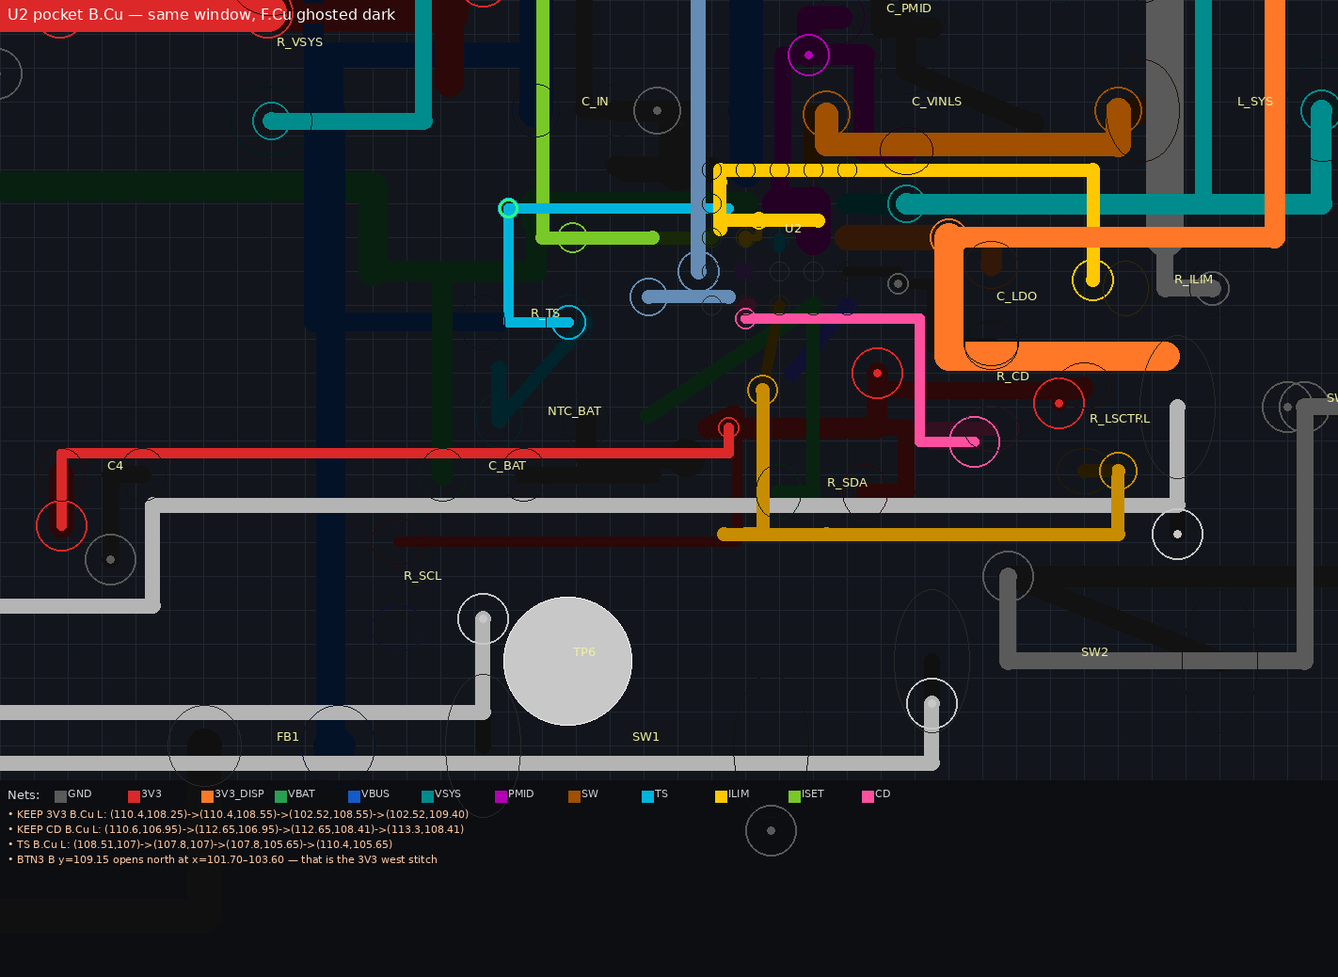
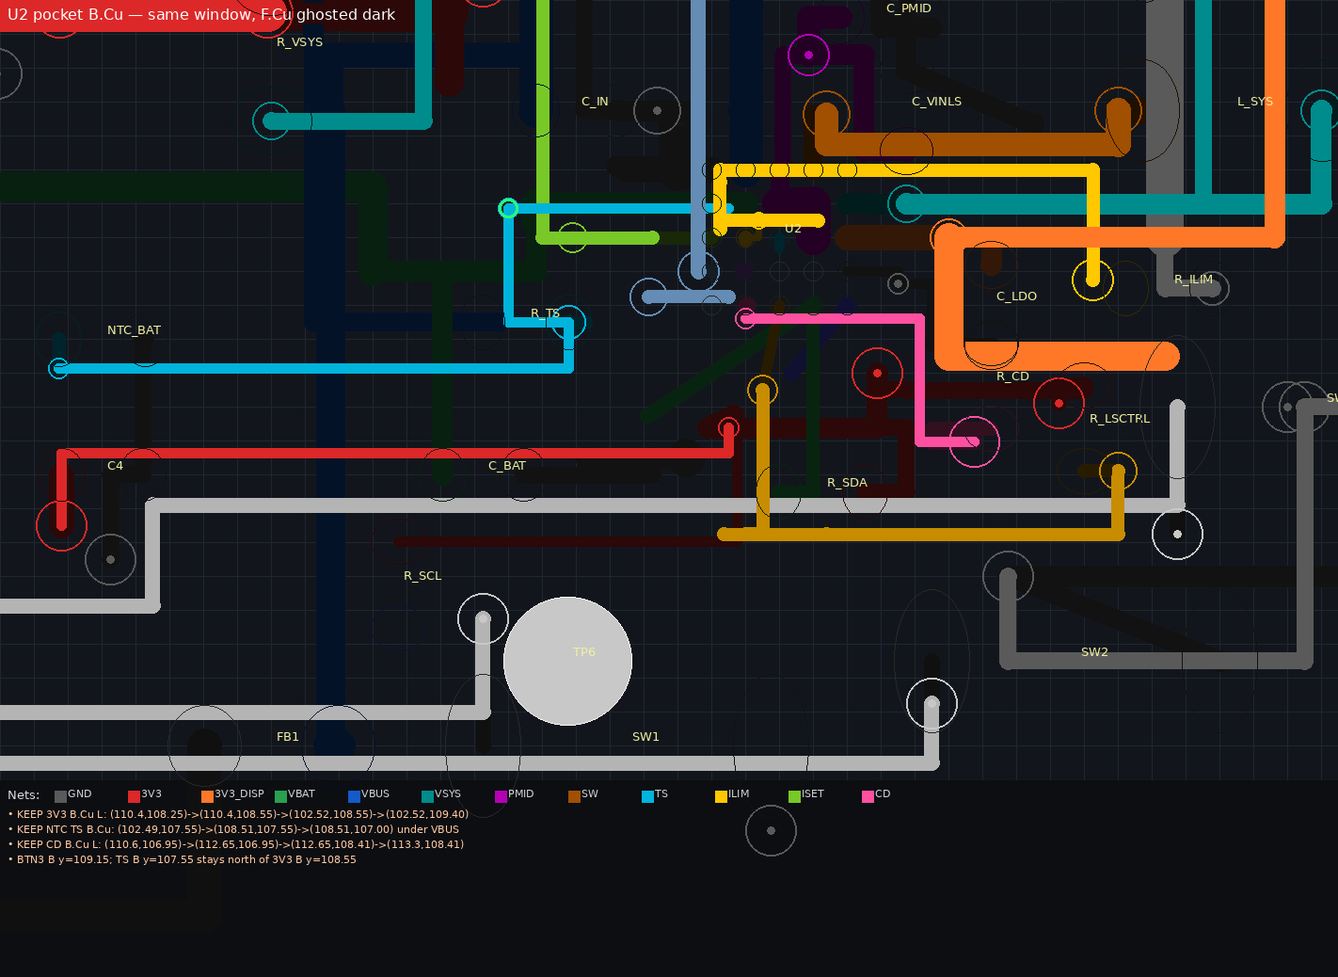
Spread NTC_BAT west onto the C4 column.
Park the 0402 NTC on the C4 column west of VBUS so the south U2 heap is not stacked on C_BAT. TS hops B.Cu under VBUS at y=107.55 onto the existing TS via; GND ties F.Cu onto C4.2. Sol STEP7 independently refused the east/south NTC and north R_SDA paths.

Changed region(s): [[0.0309, 0.8324, 0.3404, 0.894], [0.0309, 0.3391, 0.4332, 0.4008]]

diff --git a/kicad/tools/_pass_ag_try.py b/kicad/tools/_pass_ag_try.py
@@ -426,6 +426,39 @@ elif edit_name == "sol_3v3_west_via":
     text = add_segment(text, 102.52, 108.55, 102.52, 109.4, 0.12, "B.Cu", rail_3v3_net)
     print("sol_3v3_west_via via (110.4,108.25) 0.25 + B L to west via (102.52,109.4)")
 
+elif edit_name == "sol_ntc_west":
+    # Spread the NTC/C_BAT 0402 pile (courtyard −0.290). East of C_BAT is
+    # SDA-diagonal / 3V3-rail blocked; rot90 between C_BAT and R_SDA hits
+    # GND y=108.8 and SDA. R_SDA rot90 on x=111.4 shorts pad2 3V3 vs the
+    # SDA vertical. KEEP: NTC_BAT (108.2,108.15,0) → (103.0,107.2,0) north
+    # of C4, west of VBUS. pad1 TS (102.49,107.20), pad2 GND (103.51,107.20).
+    # TS F→via 0.25@(102.49,107.55) not VIP; B.Cu y=107.55 under VBUS onto
+    # existing TS via (108.51,107.00). GND F onto C4.2. Collapse old TS/GND
+    # stubs in the same save (in-place, no delete). Probe overlap=0
+    # (3V3 B +0.880, BTN3 +1.450, C4.1 3V3 +0.550, VBUS pad2 +1.495).
+    text = set_fp_at(text, "NTC_BAT", "103.0 107.2")
+    text, n_ts_diag = set_seg_ends(
+        text, 108.71, 107.0, 107.69, 108.15, 108.51, 107.0, 108.71, 107.0, layer="F.Cu"
+    )
+    text, n_ts_stub = set_seg_ends(
+        text, 107.69, 108.15, 107.69, 107.55, 108.51, 107.0, 108.51, 107.12, layer="F.Cu"
+    )
+    text, n_gnd = set_seg_ends(
+        text, 108.71, 108.15, 108.71, 108.6, 108.71, 108.6, 109.5, 108.6, layer="F.Cu"
+    )
+    text = add_via(text, 102.49, 107.55, 0.25, 0.15, ts_net)
+    text = add_segment(text, 102.49, 107.2, 102.49, 107.55, 0.15, "F.Cu", ts_net)
+    text = add_segment(text, 102.49, 107.55, 108.51, 107.55, 0.12, "B.Cu", ts_net)
+    text = add_segment(text, 108.51, 107.55, 108.51, 107.0, 0.12, "B.Cu", ts_net)
+    text = add_segment(text, 103.51, 107.2, 103.48, 107.2, 0.2, "F.Cu", ground_net)
+    text = add_segment(text, 103.48, 107.2, 103.48, 108.8, 0.2, "F.Cu", ground_net)
+    print(
+        f"sol_ntc_west fp NTC (103.0,107.2) TS_diag={n_ts_diag} "
+        f"TS_stub={n_ts_stub} GND={n_gnd}"
+    )
+    if n_ts_diag != 1 or n_ts_stub != 1 or n_gnd != 1:
+        raise SystemExit("sol_ntc_west failed to match old TS/GND copper")
+
 else:
     raise SystemExit(f"unknown edit {edit_name}")
 

diff --git a/kicad/tools/_pass_ag_apply_keeps.py b/kicad/tools/_pass_ag_apply_keeps.py
@@ -145,6 +145,33 @@ if has_gnd_d5_tie and not has_3v3_west:
     applied.append("sol_3v3_west_via")
     has_3v3_west = True
 
+has_ntc_west = "(at 103.0 107.2)" in text
+if has_3v3_west and not has_ntc_west:
+    ts_net = netnum(text, "TS")
+    ground_net = netnum(text, "GND")
+    text = set_fp_at(text, "NTC_BAT", "103.0 107.2")
+    text, n_ts_diag = set_seg_ends(
+        text, 108.71, 107.0, 107.69, 108.15, 108.51, 107.0, 108.71, 107.0, layer="F.Cu"
+    )
+    text, n_ts_stub = set_seg_ends(
+        text, 107.69, 108.15, 107.69, 107.55, 108.51, 107.0, 108.51, 107.12, layer="F.Cu"
+    )
+    text, n_gnd = set_seg_ends(
+        text, 108.71, 108.15, 108.71, 108.6, 108.71, 108.6, 109.5, 108.6, layer="F.Cu"
+    )
+    if n_ts_diag != 1 or n_ts_stub != 1 or n_gnd != 1:
+        raise SystemExit(
+            f"sol_ntc_west follow TS_diag={n_ts_diag} TS_stub={n_ts_stub} GND={n_gnd}"
+        )
+    text = add_via(text, 102.49, 107.55, 0.25, 0.15, ts_net)
+    text = add_segment(text, 102.49, 107.2, 102.49, 107.55, 0.15, "F.Cu", ts_net)
+    text = add_segment(text, 102.49, 107.55, 108.51, 107.55, 0.12, "B.Cu", ts_net)
+    text = add_segment(text, 108.51, 107.55, 108.51, 107.0, 0.12, "B.Cu", ts_net)
+    text = add_segment(text, 103.51, 107.2, 103.48, 107.2, 0.2, "F.Cu", ground_net)
+    text = add_segment(text, 103.48, 107.2, 103.48, 108.8, 0.2, "F.Cu", ground_net)
+    applied.append("sol_ntc_west")
+    has_ntc_west = True
+
 if not applied:
     if "(at 110.75 105.8)" in text and (
         "(at 108.8 109.8 90)" in text or has_rscl_west
@@ -166,6 +193,8 @@ if not applied:
             extra += ", sol_gnd_d5_tie"
         if has_3v3_west:
             extra += ", sol_3v3_west_via"
+        if has_ntc_west:
+            extra += ", sol_ntc_west"
         print(
             "Pass-AG keeps already present: "
             f"iset_via_west, ts_via_corner, sol_combo_west{extra}"

diff --git a/kicad/tools/_u2_pocket_render.py b/kicad/tools/_u2_pocket_render.py
@@ -40,7 +40,7 @@ LATENTS = [
     "KEEP: TS via (107.8,105.65) 0.25; ILIM via (110.75,105.80) 0.20; CD E2 (110.6,106.95)",
     "KEEP: R_SCL (106.5,110.1,90); GND D5 via (112.4,106.55)+F L to R_CD (112.8,107.24)",
     "KEEP: 3V3 west via (110.4,108.25) 0.25 + B L y=108.55 onto (102.52,109.40)",
-    "Sol STEP6 no SCL/TS/A5 KEEP. Remaining: A5 GND, west GND NTC, SDA, SCL, TS, PMIC_INT, 3V3_DISP",
+    "KEEP: NTC_BAT (103.0,107.2,0) on C4 column; TS B y=107.55 under VBUS to (108.51,107.00)",
 ]
 
 
@@ -248,6 +248,7 @@ def render_layer(text, layer, title, callouts):
         ((110.45, 106.80, 110.75, 107.10), "CD via KEEP"),
         ((112.20, 106.35, 112.95, 107.35), "GND D5 KEEP"),
         ((110.20, 108.05, 110.60, 108.45), "3V3 west KEEP"),
+        ((102.40, 106.90, 103.70, 107.75), "NTC west KEEP"),
     ]
     if layer == "F.Cu":
         for (bx0, by0, bx1, by1), _label in boxes:
@@ -284,7 +285,7 @@ def main():
     fcu = render_layer(
         text,
         "F.Cu",
-        "U2 pocket F.Cu — after 3V3 west stitch (shorting=0, unc=9)",
+        "U2 pocket F.Cu — after NTC west spread (shorting=0, unc=9)",
         LATENTS,
     )
     bcu = render_layer(
@@ -293,9 +294,9 @@ def main():
         "U2 pocket B.Cu — same window, F.Cu ghosted dark",
         [
             "KEEP 3V3 B.Cu L: (110.4,108.25)->(110.4,108.55)->(102.52,108.55)->(102.52,109.40)",
+            "KEEP NTC TS B.Cu: (102.49,107.55)->(108.51,107.55)->(108.51,107.00) under VBUS",
             "KEEP CD B.Cu L: (110.6,106.95)->(112.65,106.95)->(112.65,108.41)->(113.3,108.41)",
-            "TS B.Cu L: (108.51,107)->(107.8,107)->(107.8,105.65)->(110.4,105.65)",
-            "BTN3 B y=109.15 opens north at x=101.70–103.60 — that is the 3V3 west stitch",
+            "BTN3 B y=109.15; TS B y=107.55 stays north of 3V3 B y=108.55",
         ],
     )
     fcu_path = OUT / "u2_pocket_fcu_annotated.png"

diff --git a/kicad/reports/PASS_AG_SOL_STEP7.md b/kicad/reports/PASS_AG_SOL_STEP7.md
@@ -1,0 +1,105 @@
+# gpt-6-sol repo explorer (2026-09-24)
+
+Sol used workspace tools. API key is not in the repo. Coordinates below are **Sol's**, not yet a DRC KEEP unless a later section says KEEP.
+
+## Tool calls
+
+- `list_dir` `{"path": "."}`
+- `glob` `{"pattern": "**/cursor.md"}`
+- `glob` `{"pattern": "kicad/reports/**/*"}`
+- `glob` `{"pattern": "kicad/*PASS*"}`
+- `read_file` `{"path": "cursor.md"}`
+- `read_file` `{"path": "kicad/reports/PASS_AG.md"}`
+- `read_file` `{"path": "kicad/reports/PASS_AG_SOL_STEP5.md"}`
+- `read_file` `{"path": "kicad/reports/PASS_AG_SOL_STEP6.md"}`
+- `list_dir` `{"path": "kicad/reports/sol_views"}`
+- `list_dir` `{"path": "kicad"}`
+- `grep` `{"path": "kicad/LIVE_LOG.txt", "pattern": "sol_gnd_d5_tie|sol_3v3_west_via|unc|shorting", "max_matches": 35}`
+- `grep` `{"path": "kicad/LIVE_LOG.txt", "pattern": "sol_gnd_d5_tie|sol_3v3_west_via|STEP6|unc=9", "max_matches": 30}`
+- `read_file` `{"path": "kicad/LIVE_LOG.txt", "offset": 900, "limit": 170}`
+- `read_image` `{"path": "kicad/reports/sol_views/u2_pocket_fcu_annotated.png"}`
+- `read_image` `{"path": "kicad/reports/sol_views/u2_pocket_bcu_annotated.png"}`
+- `read_image` `{"path": "kicad/reports/sol_views/u2_3d_close.png"}`
+- `inspect_pcb_window` `{"x0": 103, "y0": 104, "x1": 117, "y1": 114}`
+- `inspect_pcb_window` `{"x0": 105.9, "y0": 106.5, "x1": 115.4, "y1": 110.4, "layer": "F.Cu"}`
+- `probe_clearance` `{"kind": "segment", "net": "SDA", "layer": "F.Cu", "x1": 110.99, "y1": 108.7, "x2": 111.4, "y2": 108.7, "width": 0.15}`
+- `probe_clearance` `{"kind": "segment", "net": "3V3", "layer": "F.Cu", "x1": 112.01, "y1": 108.7, "x2": 112.5, "y2": 108.7, "width": 0.2}`
+- `probe_clearance` `{"kind": "segment", "net": "SDA", "layer": "F.Cu", "x1": 111.4, "y1": 108.7, "x2": 111.4, "y2": 106.8, "width": 0.15}`
+- `probe_clearance` `{"kind": "segment", "net": "3V3", "layer": "F.Cu", "x1": 112.5, "y1": 108.7, "x2": 112.5, "y2": 108.25, "width": 0.2}`
+- `probe_clearance` `{"kind": "segment", "net": "SDA", "layer": "F.Cu", "x1": 110.99, "y1": 108.7, "x2": 110.99, "y2": 108.7, "width": 0.15}`
+- `probe_clearance` `{"kind": "segment", "net": "3V3", "layer": "F.Cu", "x1": 112.01, "y1": 108.7, "x2": 112.01, "y2": 108.7, "width": 0.2}`
+- `probe_clearance` `{"kind": "segment", "net": "SDA", "layer": "F.Cu", "x1": 110.99, "y1": 108.53, "x2": 110.99, "y2": 109.17, "width": 0.54}`
+- `probe_clearance` `{"kind": "segment", "net": "3V3", "layer": "F.Cu", "x1": 112.01, "y1": 108.53, "x2": 112.01, "y2": 109.17, "width": 0.54}`
+- `probe_clearance` `{"kind": "segment", "net": "SDA", "layer": "F.Cu", "x1": 110.99, "y1": 108.85, "x2": 111.4, "y2": 108.85, "width": 0.15}`
+- `probe_clearance` `{"kind": "segment", "net": "3V3", "layer": "F.Cu", "x1": 112.01, "y1": 108.85, "x2": 112.5, "y2": 108.85, "width": 0.2}`
+- `probe_clearance` `{"kind": "segment", "net": "SDA", "layer": "F.Cu", "x1": 111.4, "y1": 108.85, "x2": 111.4, "y2": 106.8, "width": 0.15}`
+- `probe_clearance` `{"kind": "segment", "net": "3V3", "layer": "F.Cu", "x1": 112.5, "y1": 108.85, "x2": 112.5, "y2": 108.25, "width": 0.2}`
+- `probe_clearance` `{"kind": "segment", "net": "TS", "layer": "F.Cu", "x1": 107.69, "y1": 107.75, "x2": 107.69, "y2": 108.39, "width": 0.54}`
+- `probe_clearance` `{"kind": "segment", "net": "GND", "layer": "F.Cu", "x1": 108.71, "y1": 107.75, "x2": 108.71, "y2": 108.39, "width": 0.54}`
+- `probe_clearance` `{"kind": "segment", "net": "VBAT", "layer": "F.Cu", "x1": 107.02, "y1": 108.9, "x2": 107.02, "y2": 109.52, "width": 0.56}`
+- `probe_clearance` `{"kind": "segment", "net": "GND", "layer": "F.Cu", "x1": 107.98, "y1": 108.9, "x2": 107.98, "y2": 109.52, "width": 0.56}`
+- `probe_clearance` `{"kind": "segment", "net": "GND", "layer": "F.Cu", "x1": 107.98, "y1": 109.21, "x2": 109.5, "y2": 109.21, "width": 0.2}`
+- `probe_clearance` `{"kind": "segment", "net": "TS", "layer": "F.Cu", "x1": 107.69, "y1": 107.75, "x2": 107.69, "y2": 107.55, "width": 0.18}`
+
+## Usage
+
+{
+  "prompt_tokens": 43825,
+  "completion_tokens": 1386,
+  "total_tokens": 45211,
+  "prompt_tokens_details": {
+    "cached_tokens": 40757,
+    "cache_write_tokens": 3065
+  },
+  "completion_tokens_details": {
+    "reasoning_tokens": 692
+  },
+  "cost": 0.0,
+  "is_byok": false
+}
+
+## Sol reply
+
+Я сам открыл `cursor.md`, хвост `kicad/LIVE_LOG.txt`, `PASS_AG.md`, `PASS_AG_SOL_STEP5.md` и `STEP6.md`; осмотрел медь и площадки в живой плате через `inspect_pcb_window`, размеченные карты F.Cu/B.Cu и крупный 3D-вид из `sol_views`. Плату не менял. Состояние после `sol_gnd_d5_tie` и `sol_3v3_west_via` принимаю как исходное: по отчёту `shorting=0`, `unc=9`; эти KEEP не откатываю и зоны не перезаливаю.
+
+Три **разных направления**, пока не готовых KEEP:
+
+1. **Разнести NTC_BAT и C_BAT по вертикали.** Сдвиг NTC_BAT к C_BAT ограничен их медью: проверенная проба площадки TS в нижнем направлении дала перекрытие с площадкой GND C_BAT `−0,078 мм`. Сдвиг C_BAT вниз требует переложить VBAT и GND; проба площадок в этом направлении пересекла существующую F.Cu-шину 3V3 (`−0,270 мм`). Северный обход TS остаётся отдельной задачей.
+2. **Увести R_SDA на север, сохранив ортогональные F.Cu-подводы SDA и 3V3.** Пробные короткие подводы к площадкам свободны, но полный подвод SDA по существующему вертикальному направлению пересекает 3V3 (`−0,200 мм`) и SCL (`−0,165 мм`). Одной перестановки 0402 недостаточно. Южная постановка R_SDA на дворовые зоны SW1/SW2 уже отвергнута в отчётах.
+3. **Оставить южную группу на месте и соединять острова U2 обходами F/B:** SCL E5 — к `R_SCL.1` через южный F.Cu-обход; TS C3 — к существующему TS-переходу `(107,80; 105,65)` через северный B.Cu-обход. Это отличается от перестановок NTC/C_BAT и R_SDA, но проверенного сквозного пути нет: у SCL мешают подвод 3V3, VBUS и BTN1, у TS — CD и ILIM. Сигналы на In1.Cu/In2.Cu не вывожу, новые переходы допустимы только F.Cu–B.Cu.
+
+**Первого комбинированного KEEP сейчас нет.** Поэтому точных команд `set_fp_at` / `set_seg_ends` / `add_segment` / `add_via` не выдаю: пробы не подтвердили одновременно новые площадки и все последующие участки ни для одного полного варианта. Локально свободный отрезок не является разрешением на перенос компонента или соединение островов; после полного геометрического решения потребуется отдельная проверка DRC с неизменными жёсткими порогами. VBUS на док не подавать.
+
+## Independent KEEP (not Sol copper)
+
+Sol correctly refused NTC/C_BAT south (C_BAT GND / 3V3 L) and R_SDA north along `x=111.4`. Independent west-of-VBUS path: park `NTC_BAT` on the `C4` column, TS B.Cu under VBUS at `y=107.55` (north of BTN3 `y=109.15` and of 3V3 B `y=108.55`).
+
+### REJECT (not applied)
+
+- NTC south onto C_BAT GND `−0.078` (Sol)
+- C_BAT south onto 3V3 L `y=109.59` `−0.270` (Sol)
+- R_SDA north, SDA vertical vs 3V3 `−0.200` / SCL `−0.165` (Sol)
+- NTC rot90 between C_BAT and R_SDA — GND `y=108.8` and SDA diagonal
+- NTC `(104.50, 107.20, 0)` — pad2 vs VBUS
+- R_SDA `(111.40, 108.76, 90)` — pad2 3V3 on SDA vertical `x=111.4`
+
+### Applied KEEP `sol_ntc_west`
+
+```text
+set_fp_at(NTC_BAT, 103.0 107.2)
+set_seg_ends TS F (108.71,107.0)-(107.69,108.15) → (108.51,107.0)-(108.71,107.0)
+set_seg_ends TS F (107.69,108.15)-(107.69,107.55) → (108.51,107.0)-(108.51,107.12)
+set_seg_ends GND F (108.71,108.15)-(108.71,108.6) → (108.71,108.6)-(109.5,108.6)
+add_via(net=TS, at=(102.49, 107.55), size=0.25, drill=0.15)
+add_segment(net=TS, layer=F.Cu, start=(102.49, 107.2), end=(102.49, 107.55), width=0.15)
+add_segment(net=TS, layer=B.Cu, start=(102.49, 107.55), end=(108.51, 107.55), width=0.12)
+add_segment(net=TS, layer=B.Cu, start=(108.51, 107.55), end=(108.51, 107.0), width=0.12)
+add_segment(net=GND, layer=F.Cu, start=(103.51, 107.2), end=(103.48, 107.2), width=0.20)
+add_segment(net=GND, layer=F.Cu, start=(103.48, 107.2), end=(103.48, 108.8), width=0.20)
+```
+
+Courtyard NTC vs C_BAT `−0.290` → `+2.721`. Probe overlap=0 (3V3 B `+0.880`, BTN3 `+1.450`, C4.1 3V3 `+0.550`). DRC: **`shorting_items=0`**, `unc=9`, power/pocket gates held.
+
+## Remaining U2 islands
+
+A5 GND, `C_BAT` GND vs east `R_CD`, SDA to U1, SCL E5 vs `R_SCL` pad1 `(106.5, 110.61)`, SCL to U1, PMIC_INT, TS C3 vs TS B `(107.8, 105.65)`, west 3V3_DISP. Courtyard leftovers: `C_BAT` vs `R_SCL` `−0.100`, `R_SDA` vs `SW2` `−0.120`.

diff --git a/kicad/reports/PASS_AG.md b/kicad/reports/PASS_AG.md
@@ -2,12 +2,12 @@
 
 **Board:** `e-ink-watch.kicad_pcb`  
 **From:** Pass-AF (`shorting=0`, `unc=10`)  
-**To:** Pass-AG (`shorting=0`, `unc=9` after `sol_3v3_west_via`)  
+**To:** Pass-AG (`shorting=0`, `unc=9` after `sol_ntc_west`)  
 **Tool:** `kicad-cli 9.0.9 pcb drc` + in-place sexpr edits
 
 ## Verdict
 
-**Partial.** Hard gates held. Combined Sol vision KEEP cleared the four U2 latents. Sol then browsed the repo: `sol_rscl_3v3` then `sol_3v3_lsctrl_tie` reconnected the west `R_SCL` pad2 and the leftover `R_LSCTRL` 3V3 stub. Independent CD F→B KEEP (`sol_cd_e2_via`) and ILIM C2 dogbone (`sol_ilim_c2_dogbone`) closed E2 and C2 (`unc` 16→12). South 0402 heap spread with `sol_rscl_west` (`R_SCL` to `(106.5, 110.1, 90)`). Independent `sol_gnd_d5_via` + F.Cu tie `sol_gnd_d5_tie` joined D5 onto east `R_CD` GND (`unc` 12→10). Independent `sol_3v3_west_via` joined east 3V3 to west via `(102.52, 109.40)` on B.Cu north of BTN3 (`unc` 10→9). C3 TS and E5 SCL still islands. Not production-ready.
+**Partial.** Hard gates held. Combined Sol vision KEEP cleared the four U2 latents. Sol then browsed the repo: `sol_rscl_3v3` then `sol_3v3_lsctrl_tie` reconnected the west `R_SCL` pad2 and the leftover `R_LSCTRL` 3V3 stub. Independent CD F→B KEEP (`sol_cd_e2_via`) and ILIM C2 dogbone (`sol_ilim_c2_dogbone`) closed E2 and C2 (`unc` 16→12). South 0402 heap spread with `sol_rscl_west` (`R_SCL` to `(106.5, 110.1, 90)`). Independent `sol_gnd_d5_via` + F.Cu tie `sol_gnd_d5_tie` joined D5 onto east `R_CD` GND (`unc` 12→10). Independent `sol_3v3_west_via` joined east 3V3 to west via `(102.52, 109.40)` on B.Cu north of BTN3 (`unc` 10→9). Independent `sol_ntc_west` moved `NTC_BAT` onto the `C4` column west of VBUS (courtyard vs `C_BAT` `−0.290` → `+2.721`; `unc` stayed 9). C3 TS and E5 SCL still islands. Not production-ready.
 
 ## KEEP (DRC-gated)
 
@@ -24,6 +24,7 @@
 | `sol_gnd_d5_via` add F/via | U2.D5 GND dogbone via `(112.4, 106.55)` `0.25/0.15` + F L `(111.8,106.4)→(112.4,106.4)→(112.4,106.55)` w=0.12. Not VIP. Via does not stitch stale In1 fill. `shorting=0`, `unc=12→11`. |
 | `sol_gnd_d5_tie` add F.Cu | Orthogonal F.Cu east-then-south `(112.4,106.55)→(112.8,106.55)→(112.8,107.24)` w=0.12 onto existing `R_CD` GND. Probe overlap=0 (3V3_DISP via `+0.300`, 3V3 via `+0.374`). Vertical-first `(112.4,106.55)–(112.4,107.24)` is only `+0.073` vs 3V3 via — rejected. `shorting=0`, `unc=11→10`. |
 | `sol_3v3_west_via` add B/via | Via on existing 3V3 F rail `(110.4, 108.25)` `0.25/0.15` + B.Cu L `(110.4,108.25)→(110.4,108.55)→(102.52,108.55)→(102.52,109.40)` onto west 3V3 via. Sol's F.Cu `(102.52,109.40)–(106.5,109.40)` hits VBUS. Via `(107.0,109.59)` cannot B-drop across BTN3 `y=109.15`. `(110.8,108.25)` overlap LSCTRL B. Probe overlap=0 (LSCTRL B `+0.200`, BTN3 `+0.450`). `shorting=0`, `unc=10→9`. |
+| `sol_ntc_west` move + F/B | Spread NTC/C_BAT pile: `NTC_BAT (108.2, 108.15, 0)` → `(103.0, 107.2, 0)` north of `C4`. TS via `0.25@(102.49, 107.55)` + B.Cu `y=107.55` under VBUS onto TS via `(108.51, 107.00)`; GND F onto `C4.2`. Sol STEP7 refused east/south NTC and north `R_SDA`. Probe overlap=0 (3V3 B `+0.880`, BTN3 `+1.450`, C4.1 3V3 `+0.550`). `shorting=0`, `unc=9`. |
 
 Replay: `python3 tools/_pass_ag_apply_keeps.py` on the Pass-AF board.
 
@@ -45,11 +46,11 @@ The four U2 latents from Pass-AG are **geometrically cleared** by `sol_combo_wes
 
 ## Remaining unc=9
 
-GND A5 vs D5, D5/`R_CD` east GND vs west GND `(108.71, 108.60)` (`NTC_BAT`/`C_BAT`), west 3V3_DISP, SDA to U1, SCL E5 vs `R_SCL` pad1 `(106.5, 110.61)`, SCL to U1, PMIC_INT, TS C3 vs TS B via `(107.8, 105.65)`. Pocket CD (E2), ILIM (C2), D5→east GND, and east 3V3→west via are closed. `R_SDA` still sits in the F street at `(111.50, 109.00)`.
+GND A5 vs D5, D5/`R_CD` east GND vs `C_BAT` west-of-U2 GND, west 3V3_DISP, SDA to U1, SCL E5 vs `R_SCL` pad1 `(106.5, 110.61)`, SCL to U1, PMIC_INT, TS C3 vs TS B via `(107.8, 105.65)`. Pocket CD (E2), ILIM (C2), D5→east GND, east 3V3→west via, and NTC TS/GND (now on the `C4` column) are closed. `R_SDA` still sits in the F street at `(111.50, 109.00)` (courtyard vs `SW2` `−0.120`). `C_BAT` vs `R_SCL` courtyard `−0.100`.
 
 ## Next
 
-Orthogonal F/B reconnect of TS C3 and SCL E5→`R_SCL` pad1 `(106.5, 110.61)`. Do not park `R_SDA` on `SW1`/`SW2` courtyards. New CD B.Cu at `y=106.95` `x=110.60–112.65` — through vias there short CD. New GND via does not stitch In1 until refill — use F.Cu ties to existing GND copper. No In1/In2 signal hauls. No new overlap. East 0402 column stays (`R_CD`/`C_LDO` x=113.5, `R_LSCTRL` x=114.6, `R_ILIM` x=115.6).
+Spread `C_BAT` off `R_SCL` / `R_SDA` off `SW2` without parking on SW1/SW2. Orthogonal F/B reconnect of TS C3 and SCL E5→`R_SCL` pad1 `(106.5, 110.61)`. New CD B.Cu at `y=106.95` `x=110.60–112.65` — through vias there short CD. New GND via does not stitch In1 until refill — use F.Cu ties to existing GND copper. No In1/In2 signal hauls. No new overlap. East 0402 column stays (`R_CD`/`C_LDO` x=113.5, `R_LSCTRL` x=114.6, `R_ILIM` x=115.6).
 
 gpt-6-sol now browses with `tools/_sol_repo_explore.py`. NC pads must show in `inspect_pcb_window` / `probe_clearance` or it will haul CD onto E1.
 
@@ -58,5 +59,5 @@ gpt-6-sol now browses with `tools/_sol_repo_explore.py`. NC pads must show in `i
 - `tools/_pass_ag_sexpr_lib.py`, `_pass_ag_gate.py`, `_pass_ag_try.py`, `_pass_ag_apply_keeps.py`, `_pass_ag_run.sh`
 - `tools/_u2_pocket_render.py`, `_sol_vision_ask.py`, `_sol_repo_explore.py`, `_sol_board_query.py`
 - `reports/sol_views/`
-- `reports/PASS_AG_SOL.md`, `reports/PASS_AG_SOL_VISION.md`, `reports/PASS_AG_SOL_EXPLORE.md`, `reports/PASS_AG_SOL_EXPLORE_FOLLOWUP.md`, `reports/PASS_AG_SOL_STEP.md`, `reports/PASS_AG_SOL_STEP2.md`, `reports/PASS_AG_SOL_STEP3.md`, `reports/PASS_AG_SOL_STEP4.md`, `reports/PASS_AG_SOL_STEP5.md`, `reports/PASS_AG_SOL_STEP6.md`
+- `reports/PASS_AG_SOL.md`, `reports/PASS_AG_SOL_VISION.md`, `reports/PASS_AG_SOL_EXPLORE.md`, `reports/PASS_AG_SOL_EXPLORE_FOLLOWUP.md`, `reports/PASS_AG_SOL_STEP.md`, `reports/PASS_AG_SOL_STEP2.md`, `reports/PASS_AG_SOL_STEP3.md`, `reports/PASS_AG_SOL_STEP4.md`, `reports/PASS_AG_SOL_STEP5.md`, `reports/PASS_AG_SOL_STEP6.md`, `reports/PASS_AG_SOL_STEP7.md`
 - `LIVE_LOG.txt`

diff --git a/cursor.md b/cursor.md
@@ -38,6 +38,7 @@ Do not skip these on the next PCB pass.
 - Sol STEP5 refused SCL/TS KEEP: pad1 east stub to `(107.10, 110.61)` only `+0.055` vs BTN1 via `0.6@(107.50, 110.50)`; west hits VBUS; north hits 3V3 pad2; TS B from C3 hits CD `−0.110` / ILIM `−0.125`.
 - New via does **not** stitch stale In1/In2 `filled_polygon` until a zone refill (refill reorders items — do not). KEEP `sol_gnd_d5_via` `0.25@(112.4, 106.55)` was still an island vs east GND. F.Cu east-then-south tie `(112.4,106.55)→(112.8,106.55)→(112.8,107.24)` w=0.12 onto existing `R_CD` GND DRC-gated `sol_gnd_d5_tie`: `shorting=0`, unc 11→10. Do **not** drop `(112.4,106.55)–(112.4,107.24)` (`+0.073` vs 3V3 via `0.6@(112.16, 107.60)`). After the tie, D5+`R_CD` is still unconnected to west GND `(108.71, 108.60)` (`NTC_BAT`/`C_BAT`).
 - Independent F.Cu-clear 3V3 stitch via `(107.0, 109.59)` `0.25` sits inside In2 r=12 (BTN3 B `+0.225`, `C_BAT` `+0.355`) but will not close west 3V3 vs via `(102.52, 109.40)` without an F.Cu tie or a zone refill. Do not apply expecting an unc drop. KEEP `sol_3v3_west_via`: via on existing 3V3 F rail `(110.4, 108.25)` `0.25` (north of BTN3) + B.Cu L `y=108.55` onto west via. Sol's F.Cu `(102.52,109.40)–(106.5,109.40)` hits VBUS. `(110.8,108.25)` overlap LSCTRL B. `(111.2,108.25)` RISK `+0.000` vs SDA `x=111.4`. DRC `shorting=0`, unc 10→9.
+- Spreading NTC vs C_BAT courtyard `−0.290`: east of C_BAT (rot0 at `y=108.80` or rot90 in the C_BAT/`R_SDA` band) hits the SDA diagonal `(109.44, 108.10)` and/or C_BAT GND `y=108.8`. `R_SDA` rot90 on `x=111.4` puts pad2 `3V3` on the SDA vertical. C_BAT south hits the 3V3 L `y=109.59`. KEEP `sol_ntc_west`: `NTC_BAT (103.0, 107.2, 0)` north of `C4`, west of VBUS `x=105.7`. TS via `0.25@(102.49, 107.55)` + B.Cu `y=107.55` under VBUS onto existing TS via `(108.51, 107.00)`. GND F onto `C4.2`. Courtyard NTC vs C_BAT `−0.290` → `+2.721`. DRC `shorting=0` unc=9. Sol STEP7 correctly refused the east/south NTC and north `R_SDA` probes.
 
 ## Hard gates (do not relax)
 
